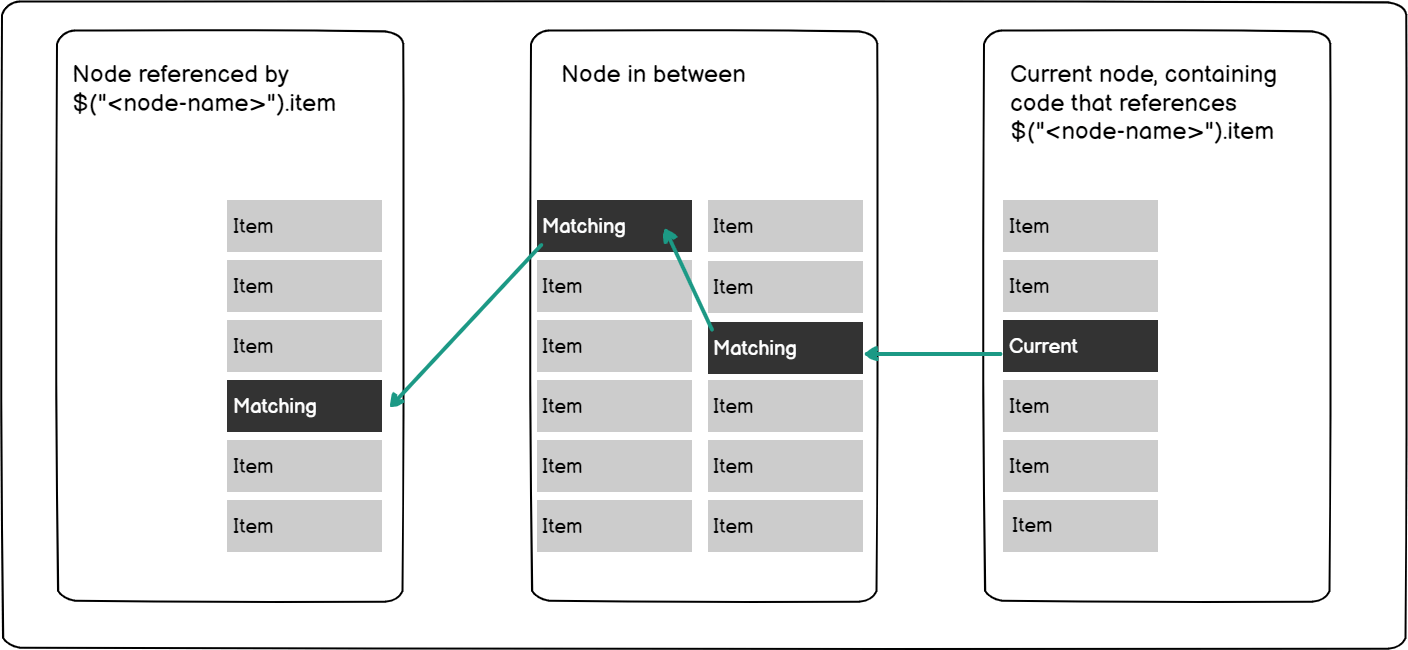
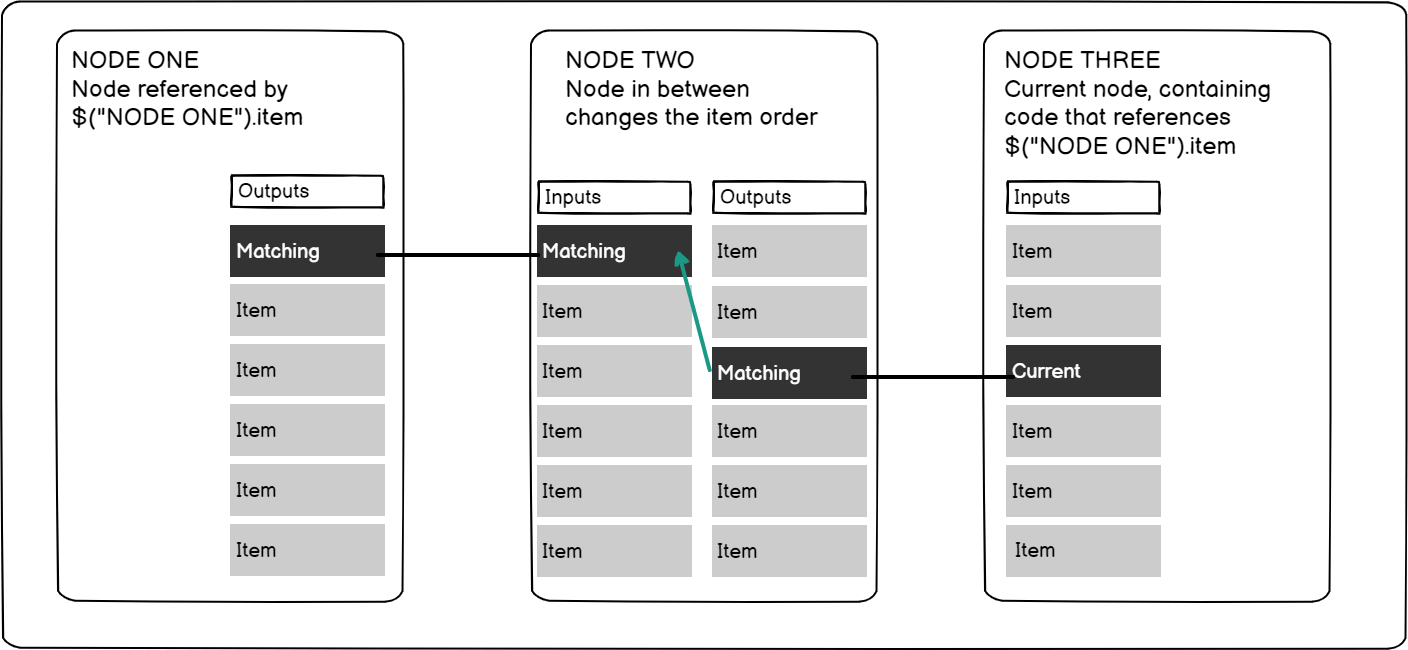
update diagram

diff --git a/docs/data/data-mapping/data-mapping-ui.md b/docs/data/data-mapping/data-mapping-ui.md
@@ -1,4 +1,4 @@
-# Data mapping
+# Mapping in the UI
 
 Data mapping means referencing data from previous nodes. It doesn't include changing (transforming) data, just referencing it.
 
